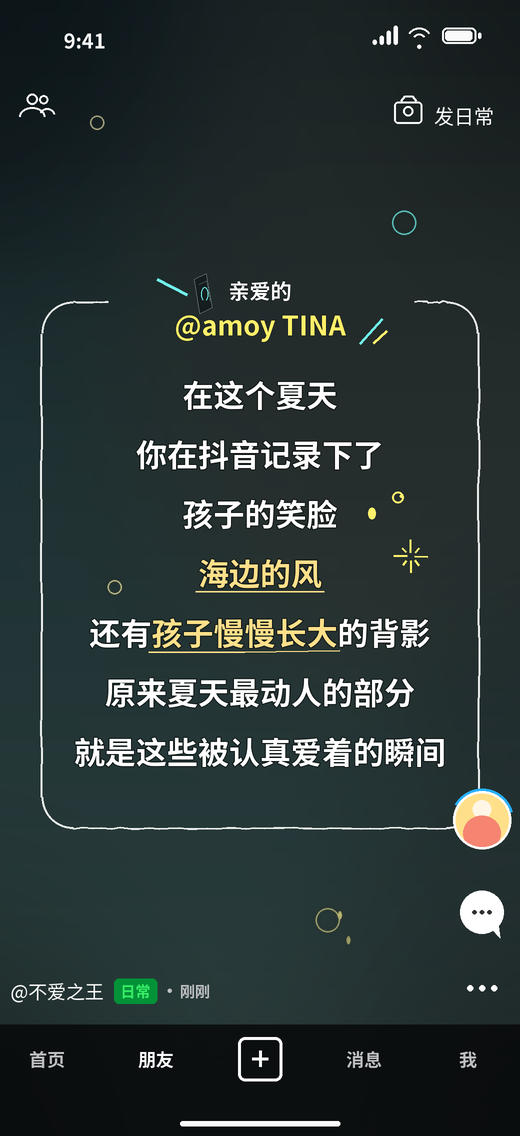
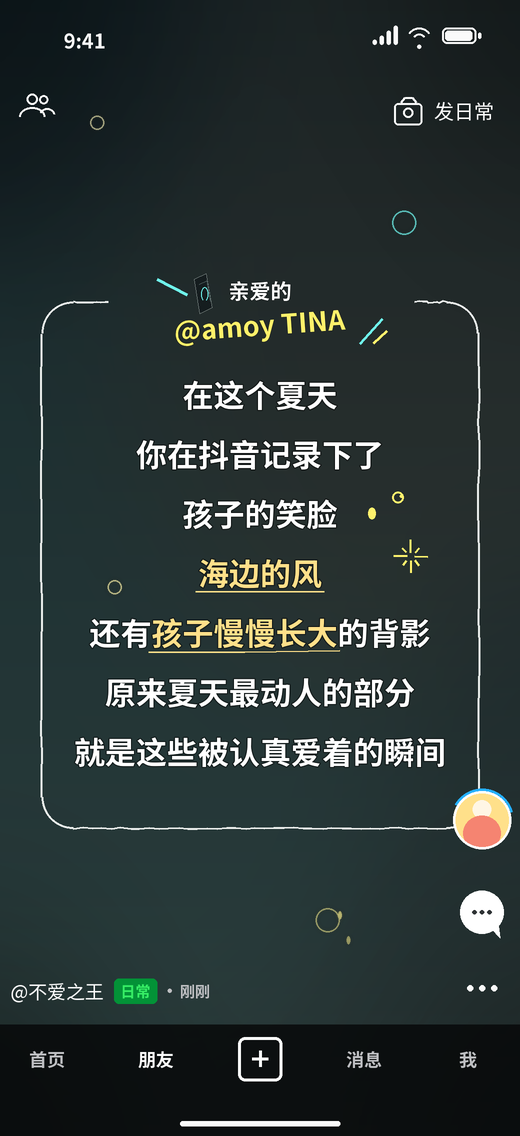
parse JSON copy input and refine UI alignment

Changed region(s): [[0.3385, 0.2773, 0.6769, 0.3081], [0.8308, 0.0924, 0.9538, 0.1232], [0.7692, 0.0616, 0.8, 0.1232]]

diff --git a/comfyui_copy_poster/renderer.py b/comfyui_copy_poster/renderer.py
@@ -2,6 +2,7 @@ from __future__ import annotations
 
 from dataclasses import dataclass, replace
 from functools import lru_cache
+import json
 import math
 import os
 import random
@@ -24,6 +25,7 @@ class PosterOptions:
     author_font_size: int = 27
     author_offset_x: int = 0
     author_offset_y: int = 0
+    author_rotation: float = 4.0
     line_spacing: float = 1.92
     content_width: float = 0.78
     vertical_position: float = 0.51
@@ -74,6 +76,70 @@ def _parse_hex_color(value: str, fallback: tuple[int, int, int, int]) -> tuple[i
     if len(value) != 6 or not re.fullmatch(r"[0-9a-fA-F]{6}", value):
         return fallback
     return tuple(int(value[index : index + 2], 16) for index in (0, 2, 4)) + (255,)
+
+
+def _extract_copy_text(value: str) -> str:
+    """Extract the copy string when an upstream node supplies a JSON payload."""
+    if not isinstance(value, str):
+        return str(value)
+
+    candidate = value.strip()
+    if candidate.startswith("```"):
+        lines = candidate.splitlines()
+        if lines and lines[0].strip().lower() in {"```", "```json"}:
+            lines = lines[1:]
+        if lines and lines[-1].strip() == "```":
+            lines = lines[:-1]
+        candidate = "\n".join(lines).strip()
+
+    try:
+        payload = json.loads(candidate)
+    except (json.JSONDecodeError, TypeError):
+        return value
+
+    if isinstance(payload, str):
+        return payload
+    if isinstance(payload, dict):
+        for key in ("text", "文案内容", "文案", "content"):
+            text_value = payload.get(key)
+            if isinstance(text_value, str):
+                return text_value
+    return value
+
+
+def _draw_rotated_text(
+    layer: Image.Image,
+    text: str,
+    font: ImageFont.ImageFont,
+    fill,
+    center: tuple[float, float],
+    angle: float,
+    stroke_width: int,
+    stroke_fill,
+) -> None:
+    """Draw text around a stable visual center with antialiased rotation."""
+    probe = ImageDraw.Draw(Image.new("L", (1, 1), 0))
+    bbox = probe.textbbox((0, 0), text, font=font, stroke_width=stroke_width)
+    pad = max(4, stroke_width + 4)
+    patch = Image.new(
+        "RGBA",
+        (max(1, bbox[2] - bbox[0] + pad * 2), max(1, bbox[3] - bbox[1] + pad * 2)),
+        (0, 0, 0, 0),
+    )
+    patch_draw = ImageDraw.Draw(patch)
+    patch_draw.text(
+        (pad - bbox[0], pad - bbox[1]),
+        text,
+        font=font,
+        fill=fill,
+        stroke_width=stroke_width,
+        stroke_fill=stroke_fill,
+    )
+    if abs(angle) > 0.01:
+        patch = patch.rotate(angle, resample=Image.Resampling.BICUBIC, expand=True)
+    x = round(center[0] - patch.width / 2)
+    y = round(center[1] - patch.height / 2)
+    layer.alpha_composite(patch, (x, y))
 
 
 FONT_CANDIDATES_BOLD = [
@@ -483,9 +549,11 @@ def _draw_social_ui(
 
     top_y = h * .098
     _draw_people_icon(draw, w * .062, top_y, scale, white)
-    _draw_camera_icon(draw, w * .785, top_y, scale, white)
+    _draw_camera_icon(draw, w * .785, top_y + 1.5 * scale, scale, white)
     top_font = _font(max(round(20 * scale), 12), False)
-    draw.text((w * .835, top_y - 11 * scale), top_label, font=top_font, fill=white)
+    top_bbox = draw.textbbox((0, 0), top_label, font=top_font)
+    top_text_y = top_y - (top_bbox[1] + top_bbox[3]) / 2
+    draw.text((w * .835, top_text_y), top_label, font=top_font, fill=white)
 
     side_x = w * .927
     _circle_avatar(layer, avatar, side_x, h * .722, 29 * scale, palette, scale)
@@ -562,9 +630,9 @@ def render_copy_poster(
     base_font_size = round(options.font_size * aa * options.width / 720)
     font_size = max(round(16 * aa), base_font_size)
 
-    # Respect manual newlines, while wrapping overlong lines by visual width.
-    # Accept real newlines as well as the frequently supplied literal `/n` form.
-    normalized_text = text.replace("\r\n", "\n").replace("\r", "\n").replace("/n", "\n")
+    # Extract a JSON `text` field first, then normalize supported newline forms.
+    copy_text = _extract_copy_text(text)
+    normalized_text = copy_text.replace("\r\n", "\n").replace("\r", "\n").replace("/n", "\n")
     raw_paragraphs = normalized_text.split("\n")
     temp_draw = ImageDraw.Draw(Image.new("RGB", (4, 4)))
 
@@ -621,7 +689,21 @@ def render_copy_poster(
     draw.text((group_x + (group_width - heading_width) / 2, heading_y), heading, font=heading_font, fill=palette["text"], stroke_width=max(1, round(scale)), stroke_fill=(0, 0, 0, 100))
     author_x = group_x + (group_width - author_width) / 2 + options.author_offset_x * ui_scale
     author_y = heading_y + font_size * .95 + options.author_offset_y * ui_scale
-    draw.text((author_x, author_y), author, font=author_font, fill=palette["author"], stroke_width=max(1, round(scale)), stroke_fill=(0, 0, 0, 100))
+    author_bbox = draw.textbbox((0, 0), author, font=author_font, stroke_width=max(1, round(scale)))
+    author_center = (
+        author_x + author_width / 2,
+        author_y + (author_bbox[1] + author_bbox[3]) / 2,
+    )
+    _draw_rotated_text(
+        layer,
+        author,
+        author_font,
+        palette["author"],
+        author_center,
+        options.author_rotation,
+        max(1, round(scale)),
+        (0, 0, 0, 100),
+    )
 
     y = start_y
     all_highlights = []

diff --git a/comfyui_copy_poster/nodes.py b/comfyui_copy_poster/nodes.py
@@ -83,6 +83,10 @@ class CopyPoster:
                     "INT",
                     {"default": 0, "min": -240, "max": 240, "step": 1, "tooltip": "账号名纵向偏移，负数向上。"},
                 ),
+                "账号旋转角度": (
+                    "FLOAT",
+                    {"default": 4.0, "min": -20.0, "max": 20.0, "step": 0.5, "tooltip": "账号名倾斜角度，正数表示右侧向上。"},
+                ),
                 "视觉风格": (["清新手绘", "温暖日记", "极简白字"], {"default": "清新手绘"}),
                 "图片宽度": ("INT", {"default": 520, "min": 256, "max": 4096, "step": 8}),
                 "图片高度": ("INT", {"default": 1136, "min": 256, "max": 4096, "step": 8}),
@@ -157,6 +161,7 @@ class CopyPoster:
         author_font_size = 取值("账号字号", "author_font_size", 27)
         author_offset_x = 取值("账号水平偏移", "author_offset_x", 0)
         author_offset_y = 取值("账号垂直偏移", "author_offset_y", 0)
+        author_rotation = 取值("账号旋转角度", "author_rotation", 4.0)
         style = 取值("视觉风格", "style", "清新手绘")
         width = 取值("图片宽度", "width", 520)
         height = 取值("图片高度", "height", 1136)
@@ -191,6 +196,7 @@ class CopyPoster:
             author_font_size=author_font_size,
             author_offset_x=author_offset_x,
             author_offset_y=author_offset_y,
+            author_rotation=author_rotation,
             line_spacing=line_spacing,
             content_width=content_width,
             vertical_position=vertical_position,

diff --git a/comfyui_copy_poster/README.md b/comfyui_copy_poster/README.md
@@ -19,6 +19,7 @@ ComfyUI/custom_nodes/comfyui_copy_poster
 1. 可选地把 `Load Image` 接到 `背景图片`。不接图片时会生成渐变背景。
 2. 在 `文案内容` 中输入文案。每个换行代表一个语义段落，过长内容会自动换行并在必要时自动缩小字号。
    同时兼容接口数据中常见的字面量 `/n`，节点会将其自动识别为换行。
+   如果上游传入完整 JSON，节点会自动提取 `text` 字段，只渲染字段中的字符串，不会把花括号、键名或其他字段画进图片。
 3. 用双中括号标记重点词，例如：
 
 ```text
@@ -44,6 +45,7 @@ ComfyUI/custom_nodes/comfyui_copy_poster
 | `账号名称` | 正文上方的账号名，例如 `@amoy TINA` |
 | `账号颜色` / `账号字号` | 账号名颜色和字号 |
 | `账号水平偏移` / `账号垂直偏移` | 账号名横向、纵向微调；负数表示向左或向上 |
+| `账号旋转角度` | 账号名倾斜角度，默认 4°，正数表示右侧向上 |
 | `行间距` | 行间距倍数 |
 | `文案宽度比例` | 正文最大宽度占画布比例 |
 | `文案垂直位置` | 正文块垂直中心位置 |
@@ -72,5 +74,6 @@ comfyui_copy_poster/
 │   └── OFL.txt
 └── examples/
     ├── preview.png
+    ├── case_json_input.json
     └── workflow_api.json
 ```

diff --git a/README.md b/README.md
@@ -6,6 +6,7 @@
 
 - 自动裁切背景并添加暗色蒙版
 - 中文自动换行与字号自适应
+- 自动识别 JSON 输入并仅提取 `text` 文案字符串
 - `[[重点文字]]` 高光标记及可连接颜色输入槽
 - 手绘边框、装饰线和背景光圈
 - 模拟状态栏、侧边按钮、作者信息与底部导航
